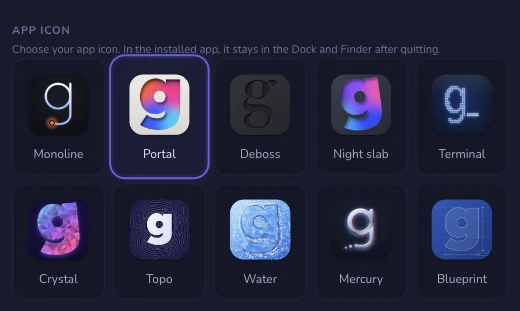
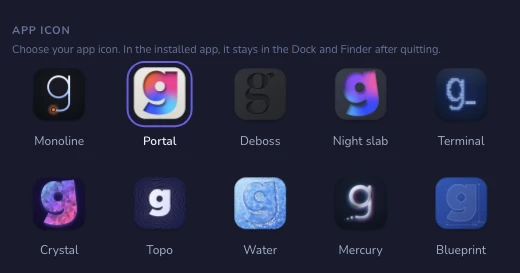
feat(ui): show the commit description and quiet the panel's chrome
Commit details now show the description under the subject, as other
clients do. A list with more below ended in a blurred, dimmed band as tall
as a row and a half that read as disabled on short lists; now only the cut
edge fades, scaled to the list. The app icon picker drops its padded cards
and rings the chosen icon itself rather than its label.

diff --git a/src/renderer/src/styles.css b/src/renderer/src/styles.css
@@ -104,25 +104,14 @@ textarea:focus {
 ::-webkit-scrollbar {
   display: none;
 }
+/* `--fade-size` scales with the scroller's visible height (lib/scrollFade). */
 [data-fade-look='plain'][data-more-below='true'] {
-  mask-image: linear-gradient(to bottom, #000 0, #000 calc(100% - 28px), transparent 100%);
+  mask-image: linear-gradient(to bottom, #000 0, #000 calc(100% - var(--fade-size, 28px)), transparent 100%);
 }
-[data-fade-look='frost'][data-more-below='true'] {
-  mask-image: linear-gradient(to bottom, #000 calc(100% - 56px), transparent 100%);
-}
-/* A light frost under the fade, pinned to the bottom of the visible area. Its
-   negative margin cancels its height, so it never adds scroll length. */
-[data-scroll-frost][data-more-below='true']::after {
-  content: '';
-  position: sticky;
-  bottom: 0;
-  display: block;
-  flex-shrink: 0;
-  height: 56px;
-  margin-top: -56px;
-  pointer-events: none;
-  backdrop-filter: blur(1.5px);
-  mask-image: linear-gradient(to bottom, transparent, #000);
+/* The details panel: only the cut edge fades. Every row in view stays fully
+   readable — a whole row dimmed or blurred reads as disabled, not as "more". */
+[data-fade-look='edge'][data-more-below='true'] {
+  mask-image: linear-gradient(to bottom, #000 calc(100% - var(--fade-size, 20px)), transparent 100%);
 }
 
 /* ─── Layout shell ──────────────────────────────────────────────────────── */
@@ -3769,6 +3758,25 @@ body.col-resizing .node-ava {
   line-height: 1.45;
   user-select: text;
   border-bottom: 1px solid var(--border-soft);
+}
+/* The description sits under the subject, inside the same block. */
+.commit-subject.has-body {
+  padding-bottom: 6px;
+  border-bottom: 0;
+}
+.commit-body {
+  padding: 0 16px 12px;
+  font-size: 12px;
+  line-height: 1.5;
+  color: var(--text-1);
+  white-space: pre-wrap;
+  overflow-wrap: anywhere;
+  user-select: text;
+  border-bottom: 1px solid var(--border-soft);
+}
+/* A description is read, not skimmed: it stops at eight lines, not four. */
+.commit-body .clamped-message.is-clamped {
+  -webkit-line-clamp: 8;
 }
 
 /* A long commit message (see ClampedMessage) reads as a paragraph: a touch smaller
@@ -17513,11 +17521,23 @@ mark.diff-find-hit.current { background: #ff9632; color: #10121a; }
 @media (prefers-reduced-motion: reduce) { .fv-elastic-body { transition: none; } }
 
 .app-icon-picker { margin: 20px 0 24px; }
-.app-icon-styles { display: grid; grid-template-columns: repeat(5, minmax(0, 1fr)); gap: 8px; }
-.app-icon-choice { position: relative; display: flex; flex-direction: column; align-items: center; gap: 4px; padding: 8px 8px 12px; border: 1px solid var(--border-soft); border-radius: 12px; background: var(--bg-1); color: var(--text-1); cursor: pointer; font-size: 12px; }
-.app-icon-choice img { width: min(100%, 90px); aspect-ratio: 1; }
-.app-icon-choice:hover { background: var(--bg-2); }
-.app-icon-choice.selected { background: color-mix(in srgb, var(--accent) 8%, var(--bg-1)); color: var(--text-0); }
+/* An icon chooser, the way iOS and macOS draw one: no box around each
+   choice, and "chosen" is a ring around the icon itself — never around its
+   label. */
+.app-icon-styles { display: grid; grid-template-columns: repeat(auto-fill, minmax(84px, 1fr)); gap: 14px 6px; }
+.app-icon-choice { display: flex; flex-direction: column; align-items: center; gap: 7px; padding: 4px 2px; border: 0; border-radius: 10px; background: none; color: var(--text-1); cursor: pointer; font-size: 12px; }
+.app-icon-tile { position: relative; display: block; width: 64px; aspect-ratio: 1; transition: transform 0.12s; }
+.app-icon-tile img { display: block; width: 100%; height: 100%; }
+/* The artwork's squircle covers 64..960 × 80..976 of its 1024px canvas; the ring
+   is drawn on exactly that shape, with macOS's corner radius. */
+.app-icon-tile::after { content: ''; position: absolute; inset: 7.8% 6.25% 4.7% 6.25%; border-radius: 22.5%; outline: 2px solid transparent; outline-offset: 2px; pointer-events: none; transition: outline-color 0.18s, outline-offset 0.18s cubic-bezier(0.2, 0.9, 0.3, 1.3); }
+.app-icon-choice:hover .app-icon-tile { transform: translateY(-1px); }
+.app-icon-choice.selected .app-icon-tile::after { outline-color: var(--accent); outline-offset: 3px; }
+.app-icon-choice.selected .app-icon-label { color: var(--text-0); font-weight: 600; }
+.app-icon-choice:focus-visible { outline: none; }
+.app-icon-choice:focus-visible .app-icon-tile::after { outline: 2px dashed var(--text-1); outline-offset: 3px; }
+.app-icon-choice.selected:focus-visible .app-icon-tile::after { outline-style: solid; outline-color: var(--accent); box-shadow: 0 0 0 7px var(--accent-soft); }
+@media (prefers-reduced-motion: reduce) { .app-icon-tile, .app-icon-tile::after { transition: none; } }
 
 .fv-pull-meter { position: relative; flex: 0 0 48px; width: 48px; height: 48px; }
 .fv-pull-meter > svg:first-child { position: absolute; inset: 0; width: 48px; height: 48px; transform: rotate(-90deg); fill: none; stroke-width: 2.5; }
@@ -17606,7 +17626,6 @@ mark.diff-find-hit.current { background: #ff9632; color: #10121a; }
 .theme-card,
 .onboarding-theme-card,
 .wizard-tool-card,
-.app-icon-choice,
 .group-color-swatch {
   outline: 2px solid transparent;
   outline-offset: 0;
@@ -17616,7 +17635,6 @@ mark.diff-find-hit.current { background: #ff9632; color: #10121a; }
 .theme-card.selected,
 .onboarding-theme-card.selected,
 .wizard-tool-card.active,
-.app-icon-choice.selected,
 .group-color-swatch.selected {
   outline-color: var(--accent);
   outline-offset: 2px;
@@ -17625,7 +17643,6 @@ mark.diff-find-hit.current { background: #ff9632; color: #10121a; }
 .theme-card:focus-visible,
 .onboarding-theme-card:focus-visible,
 .wizard-tool-card:focus-visible,
-.app-icon-choice:focus-visible,
 .group-color-swatch:focus-visible {
   outline: 2px dashed var(--text-1);
   outline-offset: 2px;
@@ -17634,7 +17651,6 @@ mark.diff-find-hit.current { background: #ff9632; color: #10121a; }
 .theme-card.selected:focus-visible,
 .onboarding-theme-card.selected:focus-visible,
 .wizard-tool-card.active:focus-visible,
-.app-icon-choice.selected:focus-visible,
 .group-color-swatch.selected:focus-visible {
   outline-style: solid;
   outline-color: var(--accent);
@@ -17644,7 +17660,6 @@ mark.diff-find-hit.current { background: #ff9632; color: #10121a; }
   .theme-card,
   .onboarding-theme-card,
   .wizard-tool-card,
-  .app-icon-choice,
   .group-color-swatch {
     transition: none;
   }

diff --git a/src/renderer/src/components/CommitDetails.tsx b/src/renderer/src/components/CommitDetails.tsx
@@ -29,6 +29,7 @@ import { fileListViewMenuItems } from '../lib/fileListMenu'
 import { stepRange, claimRangeKeys, ownsRangeKeys, rangeKeysBlocked, domOrder } from '../lib/rangeSelect'
 import { ChangeSummary } from './ChangeSummary'
 import { ClampedMessage } from './ClampedMessage'
+import { splitCommitMessage } from '../lib/commitMenuCapabilities'
 import { effectiveFilter, filterByBuckets, type BucketFilter } from '../lib/fileStats'
 
 function profileUrl(name: string, email: string, remotes: RemoteInfo[]): string | undefined {
@@ -63,6 +64,22 @@ export function CommitDetails({ repo, hash }: { repo: RepoData; hash: string }):
   const editor = useSettingsStore((s) => s.settings.editor)
   const commit: GraphCommit | undefined = repo.commits.find((c) => c.hash === hash)
   const t = useT()
+
+  // The description below the subject. The log carries only a one-line
+  // preview, so the full message is read once per commit; a stale answer for
+  // a commit no longer selected is dropped by its hash.
+  const [body, setBody] = useState<{ hash: string; text: string } | null>(null)
+  useEffect(() => {
+    let live = true
+    gitApi
+      .getCommitMessage(repo.path, hash)
+      .then((message) => live && setBody({ hash, text: splitCommitMessage(message).description }))
+      .catch(() => undefined)
+    return () => {
+      live = false
+    }
+  }, [repo.path, hash])
+  const description = body?.hash === hash ? body.text : ''
 
   // Multi-select over the commit's file list (⌘/Ctrl-click, Shift-click,
   // Shift+↑/↓), so "restore from this commit" can take several files at once.
@@ -405,13 +422,26 @@ export function CommitDetails({ repo, hash }: { repo: RepoData; hash: string }):
             <FilePenLine size={13} />
           </button>
         </div>
-        <ClampedMessage className="commit-subject" text={commit.subject} resetKey={commit.hash}>
+        <ClampedMessage
+          className={`commit-subject${description ? ' has-body' : ''}`}
+          text={commit.subject}
+          resetKey={commit.hash}
+        >
           {autolink(
             commit.subject,
             remoteWebUrl(repo.remotes.find((r) => r.name === 'origin')?.url ?? repo.remotes[0]?.url),
             repo.config?.config?.links?.tickets
           )}
         </ClampedMessage>
+        {description && (
+          <ClampedMessage className="commit-body" text={description} resetKey={commit.hash}>
+            {autolink(
+              description,
+              remoteWebUrl(repo.remotes.find((r) => r.name === 'origin')?.url ?? repo.remotes[0]?.url),
+              repo.config?.config?.links?.tickets
+            )}
+          </ClampedMessage>
+        )}
 
         {/* Full-bleed like the subject above it, and absent entirely when there
             is nothing to show — an empty box on every commit is noise. */}

diff --git a/src/renderer/src/components/useScrollFades.ts b/src/renderer/src/components/useScrollFades.ts
@@ -1,11 +1,11 @@
 import { useEffect } from 'react'
-import { canFrost, hasMoreBelow, scrollsVertically } from '../lib/scrollFade'
+import { fadeSize, hasMoreBelow, scrollsVertically } from '../lib/scrollFade'
 
 const SCOPE = '[data-scroll-fade]'
 
 /**
  * The "there is more below" fade, for the panels that opt in with
- * `data-scroll-fade`: `frost` in the details panel, `plain` (the original
+ * `data-scroll-fade`: `edge` in the details panel, `plain` (the original
  * short fade) in Settings. Everywhere else
  * scrollbars are simply hidden: a graph or a list you are already scrolling
  * needs no hint.
@@ -23,6 +23,9 @@ export function useScrollFades(): void {
     const measure = (el: HTMLElement): void => {
       const more = String(hasMoreBelow(el.scrollHeight, el.clientHeight, el.scrollTop))
       if (el.dataset.moreBelow !== more) el.dataset.moreBelow = more
+      // The fade scales with the visible height (see fadeSize); styles.css reads it.
+      const size = `${fadeSize(el.clientHeight, el.dataset.fadeLook === 'edge' ? 20 : 28)}px`
+      if (el.style.getPropertyValue('--fade-size') !== size) el.style.setProperty('--fade-size', size)
     }
     const resize = new ResizeObserver((entries) => {
       for (const e of entries) measure(e.target as HTMLElement)
@@ -30,12 +33,8 @@ export function useScrollFades(): void {
     const track = (el: HTMLElement): void => {
       if (tracked.has(el)) return
       tracked.add(el)
-      // `plain` keeps Settings' original short fade; `frost` adds the glass strip.
-      const look = el.closest<HTMLElement>(SCOPE)?.dataset.scrollFade === 'frost' ? 'frost' : 'plain'
-      el.dataset.fadeLook = look
-      const style = getComputedStyle(el)
-      if (look === 'frost' && canFrost(getComputedStyle(el, '::after').content, style.display, style.flexDirection))
-        el.dataset.scrollFrost = ''
+      // `plain` keeps Settings' original short fade; `edge` fades only the cut edge.
+      el.dataset.fadeLook = el.closest<HTMLElement>(SCOPE)?.dataset.scrollFade === 'edge' ? 'edge' : 'plain'
       resize.observe(el)
       measure(el)
     }

diff --git a/test/scrollFade.test.ts b/test/scrollFade.test.ts
@@ -1,5 +1,5 @@
 import { describe, it, expect } from 'vitest'
-import { canFrost, hasMoreBelow, scrollsVertically } from '../src/renderer/src/lib/scrollFade'
+import { fadeSize, hasMoreBelow, scrollsVertically } from '../src/renderer/src/lib/scrollFade'
 
 describe('scroll fade', () => {
   it('fades only while content remains below, ignoring sub-pixel leftovers', () => {
@@ -16,11 +16,18 @@ describe('scroll fade', () => {
     expect(scrollsVertically('visible')).toBe(false)
   })
 
-  it('frosts only scrollers that stack top to bottom and have no ::after of their own', () => {
-    expect(canFrost('none', 'block', 'row')).toBe(true)
-    expect(canFrost('none', 'flex', 'column')).toBe(true)
-    expect(canFrost('none', 'flex', 'row')).toBe(false)
-    expect(canFrost('""', 'block', 'row')).toBe(false)
-    expect(canFrost('none', 'grid', 'row')).toBe(false)
+})
+
+describe('fadeSize', () => {
+  it('keeps the full fade on a tall scroller', () => {
+    expect(fadeSize(600, 20)).toBe(20)
+  })
+
+  it('shrinks with a short scroller so its rows stay readable', () => {
+    expect(fadeSize(60, 20)).toBe(15)
+  })
+
+  it('never thins below a visible hint', () => {
+    expect(fadeSize(20, 20)).toBe(12)
   })
 })

diff --git a/src/renderer/src/lib/scrollFade.ts b/src/renderer/src/lib/scrollFade.ts
@@ -13,13 +13,10 @@ export function scrollsVertically(overflowY: string): boolean {
 }
 
 /**
- * Whether a scroller can carry the frosted strip, which is a sticky `::after`
- * at the end of its content. Only safe when the element has no `::after` of
- * its own and lays its children out top to bottom — in a row the strip would
- * become a sideways item.
+ * How tall the bottom fade is, in px. A fixed strip that suits a tall panel
+ * swallows a short list, so the fade is a quarter of what is visible, capped
+ * at the look's full size and never so thin it stops reading as "there is more".
  */
-export function canFrost(afterContent: string, display: string, flexDirection: string): boolean {
-  if (afterContent !== 'none' && afterContent !== 'normal') return false
-  if (display === 'block' || display === 'flow-root') return true
-  return (display === 'flex' || display === 'inline-flex') && flexDirection.startsWith('column')
+export function fadeSize(clientHeight: number, max: number): number {
+  return Math.round(Math.min(max, Math.max(12, clientHeight * 0.25)))
 }

diff --git a/src/renderer/src/components/AppIconPicker.tsx b/src/renderer/src/components/AppIconPicker.tsx
@@ -21,8 +21,11 @@ export function AppIconPicker(): React.JSX.Element | null {
           <button key={icon} type="button" aria-pressed={current === icon}
             className={`app-icon-choice${current === icon ? ' selected' : ''}`}
             onClick={() => update((s) => ({ ...s, appIcon: { icon } }))}>
-            <img src={artworkUrl(icon)} alt="" />
-            <span>{t(`appIcon.icon.${icon}`)}</span>
+            {/* The tile carries the ring, sized to the squircle inside the artwork. */}
+            <span className="app-icon-tile">
+              <img src={artworkUrl(icon)} alt="" />
+            </span>
+            <span className="app-icon-label">{t(`appIcon.icon.${icon}`)}</span>
           </button>
         ))}
       </div>

diff --git a/src/renderer/src/App.tsx b/src/renderer/src/App.tsx
@@ -1093,7 +1093,7 @@ export default function App(): React.JSX.Element {
               {(selectedDetailsAvailable || chatOpen) && (
                 <motion.section
                   className="right-panel"
-                  data-scroll-fade="frost"
+                  data-scroll-fade="edge"
                   aria-label={t('chat.panelTabs')}
                   initial={{ width: 0, opacity: 0 }}
                   animate={{ width: layout.panelWidth, opacity: 1 }}

diff --git a/docs/help/themes.md b/docs/help/themes.md
@@ -16,7 +16,7 @@ Midnight, Contrast and Daltonic — each with a light and a dark variant.
 - **Light, dark, or follow the OS**, switched live.
 - **Custom themes**, and **AI-generated** ones from a prompt.
 - Adjustable **code font size**.
-- **No scrollbars.** Trackpad, wheel and keyboard scrolling work as usual. In the details panel and in Settings, a list with more below fades out at its bottom edge, and the fade goes away once you reach the end.
+- **No scrollbars.** Trackpad, wheel and keyboard scrolling work as usual. In the details panel and in Settings, a list with more below fades out at its bottom edge, and the fade goes away once you reach the end. Only the cut edge fades — no blur, and a short list gets a shorter fade — so every row you can see stays fully readable.
 - A separate **graph style**: lane palette, corner style, row density and line
   thickness, plus the ring, haze and bar on each commit row and how unpushed
   commits stand out, all with a live mini-graph preview.
@@ -80,7 +80,8 @@ Monoline (the default), Portal, Deboss, Night slab, Terminal, Crystal, Topo,
 Water, Mercury and Blueprint. Your choice changes the Dock icon immediately. In
 the installed app it also updates the Finder icon, so it stays selected after
 you quit and relaunch. Choose **Monoline** to go back to the icon the app
-shipped with.
+shipped with. The chosen icon wears an accent ring around the icon itself, the
+way iOS and macOS mark a chosen icon.
 
 The icons are fixed artwork, so there are no color options, and the choice is
 macOS-only. The development build changes only its running Dock icon, leaving

diff --git a/CLAUDE.md b/CLAUDE.md
@@ -263,8 +263,10 @@ existing vocabulary rather than inventing its own:
   `components/StateMarks.tsx`, also used by in-page pickers). An on/off:
   `checked` alone — the row's icon tile lights up. A selected card or swatch:
   the accent ring (`.selected` on the card classes near the end of
-  `styles.css`). A submenu parent shows the current value or a dot for what is
-  inside (`lib/menuState.ts` derives it; set `detail` to override).
+  `styles.css`). An icon chooser (the app icon picker) has no cards: the ring
+  goes around the icon itself, never around its label. A submenu parent shows
+  the current value or a dot for what is inside (`lib/menuState.ts` derives
+  it; set `detail` to override).
 - **Every menu row has an icon**, from `mi` in `components/menuIcons.tsx` — one
   icon per meaning, reused, never a new one for an existing verb. Editors use
   `editorGlyph()` from `components/editorGlyphs.tsx`, not app icons.

diff --git a/docs/help/graph.md b/docs/help/graph.md
@@ -113,9 +113,10 @@ drop a stash whose parent they drop, as noted above.
 ## Commit details
 
 Selecting a commit shows its changed files (tree or flat), author, SHA,
-co-authors, and its signature. A long message — past about 120 characters —
-is set a little smaller and stops at four lines, fading out; click it to read
-the rest in place, and again to fold it. Links in it still open, and selecting
+co-authors, and its signature, and its whole message: the subject, then the
+description under it. A long subject — past about 120 characters — is set a
+little smaller and stops at four lines, fading out; a long description stops at
+eight. Click either to read the rest in place, and again to fold it. Links in it still open, and selecting
 text never folds it. The header above the file list splits the
 count by kind, coloured like the glyphs on the rows. `#123` references and
 `@mentions` are autolinked to your host.

diff --git a/docs/geminio-changes.md b/docs/geminio-changes.md
@@ -398,6 +398,15 @@ Settings fade out at the bottom while more content remains.
 
 ## Settings & appearance
 
+**Quieter details panel, clearer icon picker.** A list with more below used to
+end in a blurred, dimmed band as tall as a row and a half — on a short list it
+covered most of the second row and read as disabled. Now only the cut edge
+fades, scaled to the list, and every row in view stays readable. Commit details
+show the commit's description under its subject, as other clients do. The app
+icon picker drops its padded cards: the chosen icon gets a ring around the icon
+itself, not around its label. ([Commit details](help/graph.md#commit-details),
+[App icon](help/themes.md#app-icon))
+
 **One Settings window.** Repository settings are a section of the app's
 Settings window instead of a second window; the duplicate toolbar gear is gone
 and old repo-settings commands redirect there.
